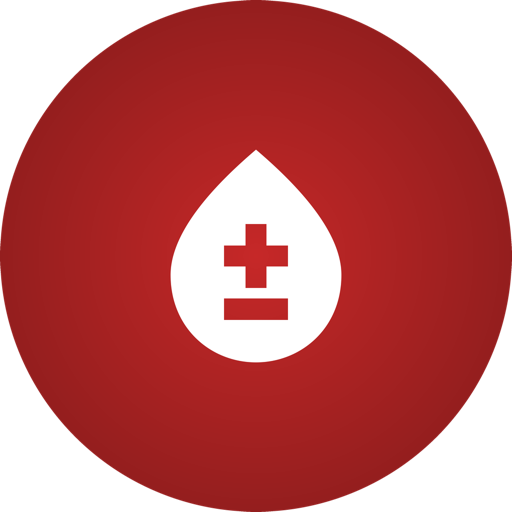
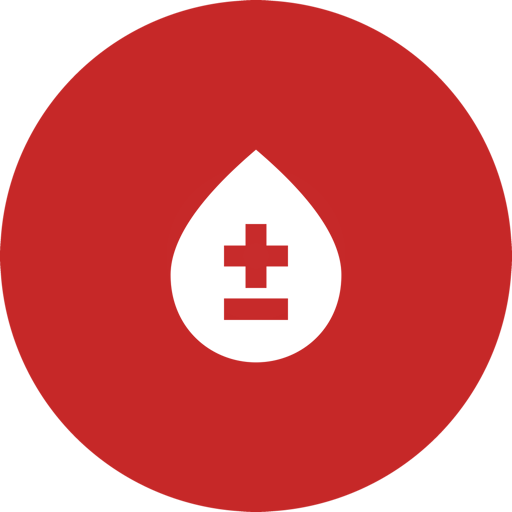
feat(portal): flat red brand mark, and a share image for link previews
- favicon.ico, icon.png and apple-icon.png recoloured to flat #C62828, matching
  the app's launcher icon (the old radial gradient read as maroon).
- The header logo is now the app's own mark — Material `bloodtype`, a droplet
  with ± — on a round red badge, via a new IconBrandMark traced from the glyph
  Flutter ships. The plain droplet stays where it marks blood type in content.
- opengraph-image.png (1200x630) + alt text: the preview Facebook and Telegram
  show for a portal link. Rendered by mobile/tool/render_share_art.dart so the
  Khmer is shaped properly. On Vercel the URL resolves to the production domain
  without a metadataBase.

diff --git a/frontend/src/components/PageHeader.tsx b/frontend/src/components/PageHeader.tsx
@@ -1,7 +1,7 @@
 import Link from 'next/link';
 import type { ReactNode } from 'react';
 import SiteControls from '@/components/SiteControls';
-import { IconDroplet } from '@/components/icons';
+import { IconBrandMark } from '@/components/icons';
 import NotificationBell from '@/components/NotificationBell';
 import type { AdminNotification } from '@/lib/notifications';
 
@@ -37,8 +37,8 @@ export default function PageHeader({
                     href={`/${locale}`}
                     className="flex min-h-11 min-w-11 items-center gap-2.5 rounded-xl focus-visible:ring-[3px] focus-visible:ring-ring/50 focus-visible:outline-none"
                 >
-                    <span className="flex size-10 shrink-0 items-center justify-center rounded-xl bg-primary text-primary-foreground shadow-sm">
-                        <IconDroplet className="h-5 w-5" />
+                    <span className="flex size-10 shrink-0 items-center justify-center rounded-full bg-primary text-primary-foreground shadow-sm">
+                        <IconBrandMark className="h-6 w-6" />
                     </span>
                     <span
                         className={`text-sm font-semibold tracking-wide whitespace-nowrap text-brand uppercase ${notifications ? 'hidden min-[420px]:inline' : ''}`}

diff --git a/frontend/src/components/icons.tsx b/frontend/src/components/icons.tsx
@@ -13,6 +13,19 @@ export function IconDroplet({ className }: IconProps) {
     );
 }
 
+/**
+ * The LifeLink KH mark: Material's `bloodtype` glyph (a droplet with ± cut out), the same
+ * one the app draws on its launcher icon, sign-in badge and splash. Traced from the
+ * `MaterialIcons-Regular.otf` Flutter ships, so the portal and the app show one mark.
+ */
+export function IconBrandMark({ className }: IconProps) {
+    return (
+        <svg viewBox="0 0 24 24" fill="currentColor" fillRule="evenodd" className={className} aria-hidden="true">
+            <path d="M12 2.02C6.66 6.56 3.98 10.5 3.98 13.78C3.98 18.8 7.78 21.98 12 21.98C16.22 21.98 20.02 18.8 20.02 13.78C20.02 10.5 17.34 6.56 12 2.02ZM15 18H9V15.98H15V18ZM15 12.98H12.98V15H11.02V12.98H9V11.02H11.02V9H12.98V11.02H15V12.98Z" />
+        </svg>
+    );
+}
+
 export function IconBuilding({ className }: IconProps) {
     return (
         <svg
